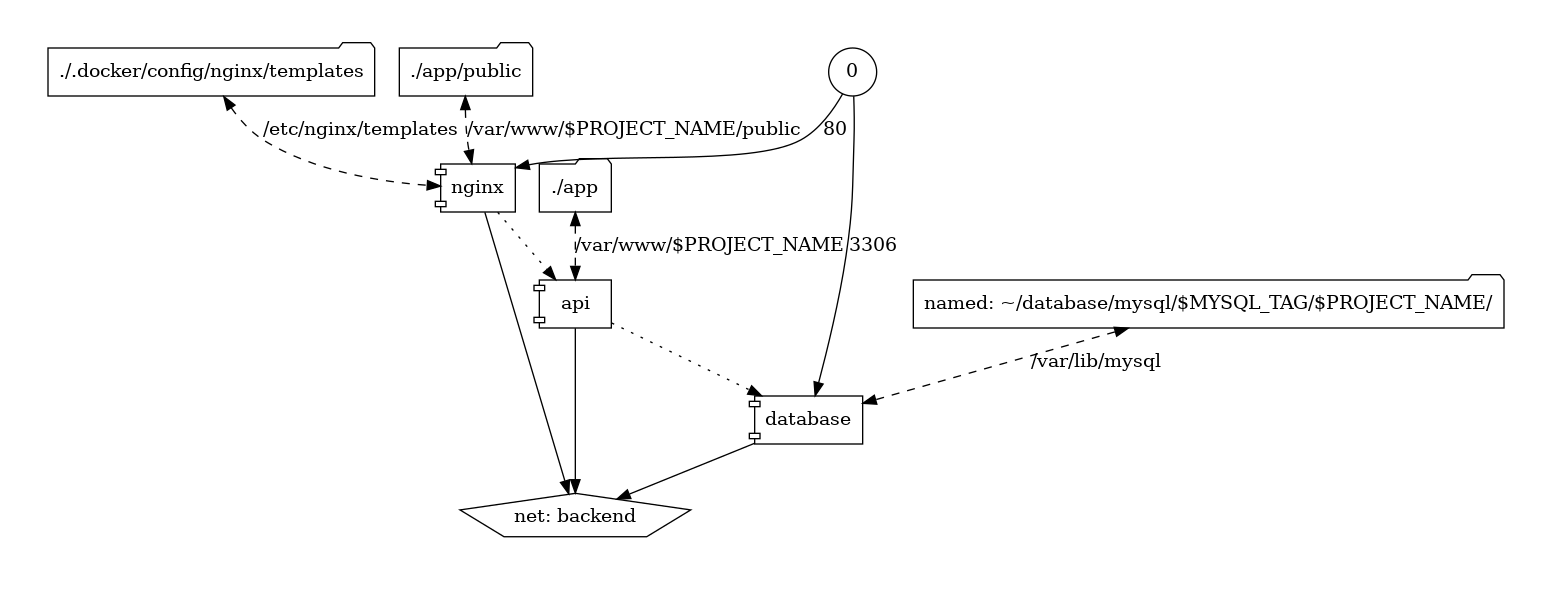
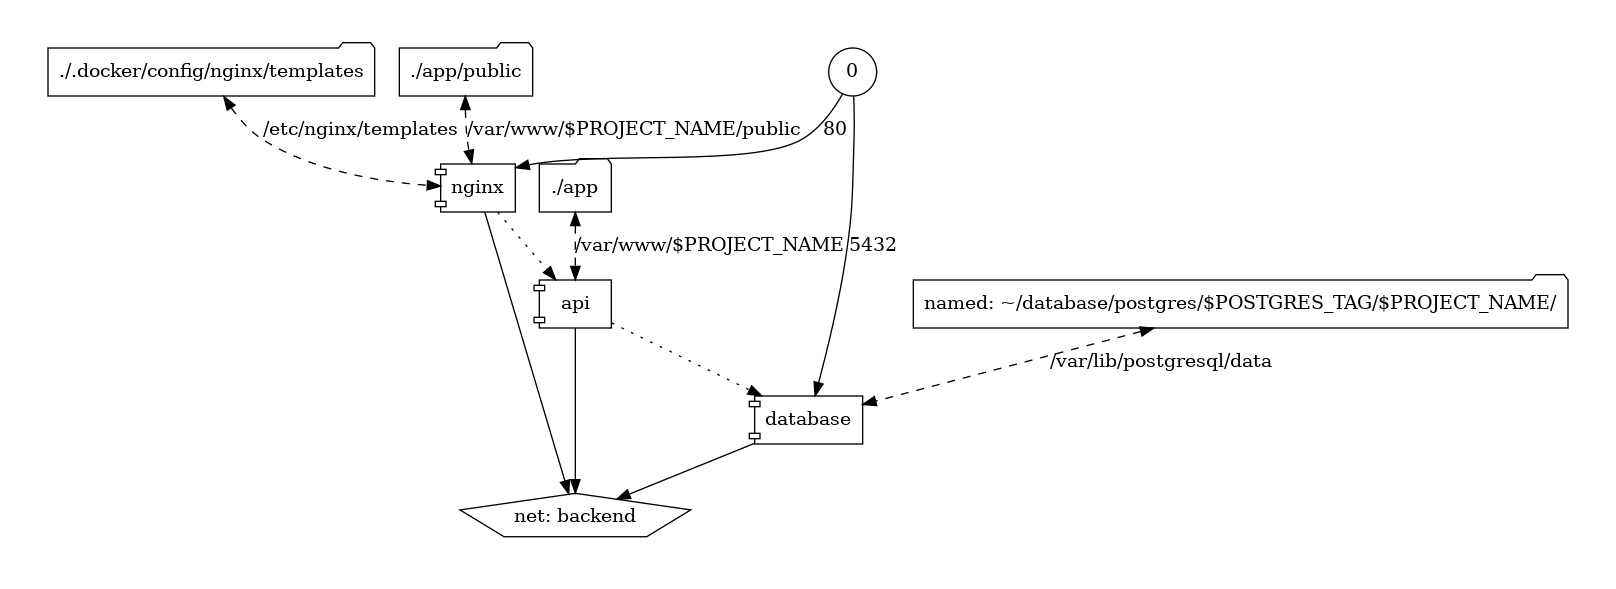
docs: regenerated dev env visual, added root README.md

diff --git a/README.md b/README.md
@@ -1,0 +1,26 @@
+# Local Environment Visual
+![Alt text](.docker/dev-env-visual.png?raw=true "wot a lovely visual")
+
+
+# Prerequisites
+
+- [Docker](https://docs.docker.com/get-docker/) + [Docker Compose](https://docs.docker.com/compose/install/) are required to run the project
+
+# Starting the project
+
+```
+cp .env.example .env
+docker network create backend
+docker-compose up -d  
+```
+
+# QA Tooling
+
+#### [Lint](https://github.com/FriendsOfPHP/PHP-CS-Fixer)
+```
+docker-compose exec api vendor/bin/php-cs-fixer fix
+``` 
+#### [Static Analysis](https://github.com/phpstan/phpstan)
+```
+docker-compose exec api vendor/bin/phpstan
+```
